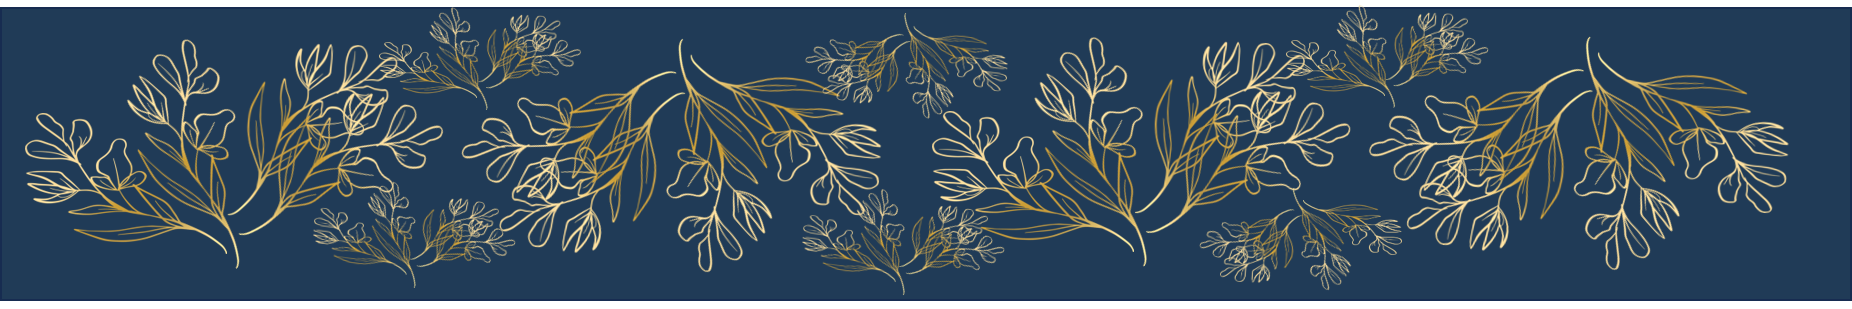
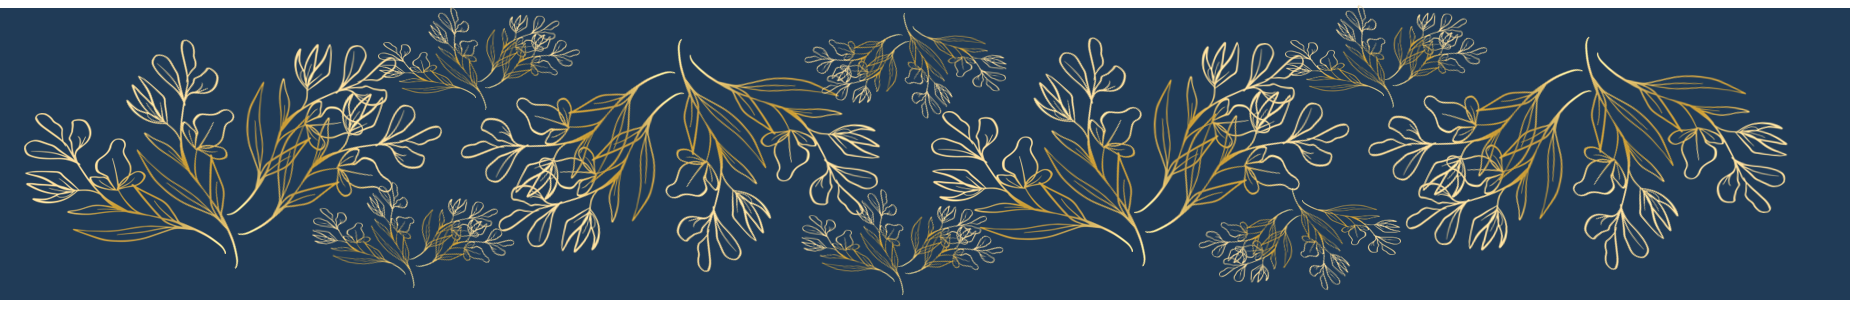
feat: redaccion en singular y badge de invitacion individual
- Cambia la nota de regalos a singular (tu presencia / deseas / puedes)
  para dirigir la invitacion a una sola persona
- Agrega imagen invite-single en la seccion de confirmacion, antes del
  boton, con su estilo .rsvp-img
- Actualiza SEPARATOR.png a la version reexportada

diff --git a/docs/index.html b/docs/index.html
@@ -172,7 +172,7 @@
       <span class="sec-num">03</span>
       <span class="sec-label">Lista de regalos</span>
     </div>
-    <p class="gf-note rv">Su presencia es el mejor regalo. Si desean tener un gesto con nosotros, pueden hacer un aporte por transferencia.</p>
+    <p class="gf-note rv">Tu presencia es el mejor regalo. Si deseas tener un gesto con nosotros, puedes hacer un aporte por transferencia.</p>
     <div class="gf-card rv">
       <div class="gf-row">
         <div><p class="k">Titular</p><p class="v">Angela Vargas</p></div>
@@ -181,7 +181,7 @@
         <div><p class="k">N° de cuenta</p><p class="v" id="gf-acct">1-980-362444-7</p></div>
         <div><p class="k">Correo de confirmación</p><p class="v">[email redacted]</p></div>
       </div>
-      <div class="det-cal"><button class="cal-btn" onclick="copyAccount()"><svg width="13" height="13" viewBox="0 0 14 14" fill="none"><rect x="4" y="4" width="8" height="8" rx="1" stroke="currentColor" stroke-width="1"/><path d="M2 10V2h8" stroke="currentColor" stroke-width="1" stroke-linecap="round"/></svg><span>Copiar número de cuenta</span></button></div>
+      <div class="det-cal"><button class="cal-btn" onclick="copyAccount()"><svg width="13" height="13" viewBox="0 0 14 14" fill="none"><rect x="4" y="4" width="8" height="8" rx="1" stroke="currentColor" stroke-width="1"/><path d="M2 10V2h8" stroke="currentColor" stroke-width="1" stroke-linecap="round"/></svg><span>Copiar Datos</span></button></div>
     </div>
   </div>
 </section>
@@ -196,7 +196,8 @@
       <span class="sec-label">Confirmación</span>
       <h2 class="sec-head">¿Nos <em>acompañas</em>?</h2>
     </div>
-    <p class="rsvp-intro rv">Nos encantaría celebrar contigo. Por favor confirma tu asistencia completando el formulario.</p>
+    <p class="rsvp-intro rv">Nos encantaría celebrar contigo. Por favor confirma en el formulario.</p>
+    <img class="rsvp-img rv" src="assets/photos/invite-single.png" alt="Invitación individual" width="117" height="112">
     <a class="rsvp-cta rv" href="https://docs.google.com/forms/d/e/1FAIpQLSex-0Aftbw2Ts8-pAynp1sXiT5xUMP5klxaoWxZkXfTkvI_yA/viewform" target="_blank"><span>Confirmar asistencia</span></a>
     <p class="rsvp-deadline rv">Antes del 01 de diciembre de 2026</p>
   </div>
@@ -206,7 +207,7 @@
   <div class="foot-mono">Angela &amp; Álvaro</div>
   <div class="foot-date">02 · 01 · 2027 — San José de Maipo</div>
   <br>
-  <div class="foot-note">(1) Angela es Angela y no Ángela, así que no es error ortográfico. (2) La entrada al recinto estará disponible solo hasta las 17:50 Hrs, una vez empezada la ceremonia serás juzgad@ por llegar tarde. (3)</div>
+  <div class="foot-note">(1) Angela es Angela y no Ángela, así que no es error ortográfico. (2) La entrada al recinto estará disponible solo hasta las 17:50 Hrs, una vez empezada la ceremonia serás juzgad@ por llegar tarde.</div>
 </footer>
 
 <script src="js/main.js"></script>

diff --git a/src/blue-min.html b/src/blue-min.html
@@ -172,7 +172,7 @@
       <span class="sec-num">03</span>
       <span class="sec-label">Lista de regalos</span>
     </div>
-    <p class="gf-note rv">Su presencia es el mejor regalo. Si desean tener un gesto con nosotros, pueden hacer un aporte por transferencia.</p>
+    <p class="gf-note rv">Tu presencia es el mejor regalo. Si deseas tener un gesto con nosotros, puedes hacer un aporte por transferencia.</p>
     <div class="gf-card rv">
       <div class="gf-row">
         <div><p class="k">Titular</p><p class="v">Angela Vargas</p></div>
@@ -181,7 +181,7 @@
         <div><p class="k">N° de cuenta</p><p class="v" id="gf-acct">1-980-362444-7</p></div>
         <div><p class="k">Correo de confirmación</p><p class="v">[email redacted]</p></div>
       </div>
-      <div class="det-cal"><button class="cal-btn" onclick="copyAccount()"><svg width="13" height="13" viewBox="0 0 14 14" fill="none"><rect x="4" y="4" width="8" height="8" rx="1" stroke="currentColor" stroke-width="1"/><path d="M2 10V2h8" stroke="currentColor" stroke-width="1" stroke-linecap="round"/></svg><span>Copiar número de cuenta</span></button></div>
+      <div class="det-cal"><button class="cal-btn" onclick="copyAccount()"><svg width="13" height="13" viewBox="0 0 14 14" fill="none"><rect x="4" y="4" width="8" height="8" rx="1" stroke="currentColor" stroke-width="1"/><path d="M2 10V2h8" stroke="currentColor" stroke-width="1" stroke-linecap="round"/></svg><span>Copiar Datos</span></button></div>
     </div>
   </div>
 </section>
@@ -196,7 +196,8 @@
       <span class="sec-label">Confirmación</span>
       <h2 class="sec-head">¿Nos <em>acompañas</em>?</h2>
     </div>
-    <p class="rsvp-intro rv">Nos encantaría celebrar contigo. Por favor confirma tu asistencia completando el formulario.</p>
+    <p class="rsvp-intro rv">Nos encantaría celebrar contigo. Por favor confirma en el formulario.</p>
+    <img class="rsvp-img rv" src="assets/photos/invite-single.png" alt="Invitación individual" width="117" height="112">
     <a class="rsvp-cta rv" href="https://docs.google.com/forms/d/e/1FAIpQLSex-0Aftbw2Ts8-pAynp1sXiT5xUMP5klxaoWxZkXfTkvI_yA/viewform" target="_blank"><span>Confirmar asistencia</span></a>
     <p class="rsvp-deadline rv">Antes del 01 de diciembre de 2026</p>
   </div>
@@ -206,7 +207,7 @@
   <div class="foot-mono">Angela &amp; Álvaro</div>
   <div class="foot-date">02 · 01 · 2027 — San José de Maipo</div>
   <br>
-  <div class="foot-note">(1) Angela es Angela y no Ángela, así que no es error ortográfico. (2) La entrada al recinto estará disponible solo hasta las 17:50 Hrs, una vez empezada la ceremonia serás juzgad@ por llegar tarde. (3)</div>
+  <div class="foot-note">(1) Angela es Angela y no Ángela, así que no es error ortográfico. (2) La entrada al recinto estará disponible solo hasta las 17:50 Hrs, una vez empezada la ceremonia serás juzgad@ por llegar tarde.</div>
 </footer>
 
 <script src="js/main.js"></script>

diff --git a/docs/css/main.css b/docs/css/main.css
@@ -222,6 +222,7 @@ section{position:relative;padding:clamp(4.5rem,9vw,8rem) clamp(1.5rem,5vw,4rem);
 .rsvp-top{margin-bottom:1.8rem}
 .rsvp-intro{font-family:'Cormorant',serif;font-style:italic;font-size:1.2rem;line-height:1.7;color:var(--mid);margin-bottom:2.6rem}
 .rsvp-intro strong{font-style:normal;font-weight:400;color:var(--ink)}
+.rsvp-img{display:block;width:117px;height:auto;margin:0 auto 2.4rem}
 .rsvp-cta{
   display:inline-flex;align-items:center;gap:.9rem;
   padding:1.15rem 3.2rem;background:var(--ink);color:var(--paper);

diff --git a/src/css/main.css b/src/css/main.css
@@ -222,6 +222,7 @@ section{position:relative;padding:clamp(4.5rem,9vw,8rem) clamp(1.5rem,5vw,4rem);
 .rsvp-top{margin-bottom:1.8rem}
 .rsvp-intro{font-family:'Cormorant',serif;font-style:italic;font-size:1.2rem;line-height:1.7;color:var(--mid);margin-bottom:2.6rem}
 .rsvp-intro strong{font-style:normal;font-weight:400;color:var(--ink)}
+.rsvp-img{display:block;width:117px;height:auto;margin:0 auto 2.4rem}
 .rsvp-cta{
   display:inline-flex;align-items:center;gap:.9rem;
   padding:1.15rem 3.2rem;background:var(--ink);color:var(--paper);